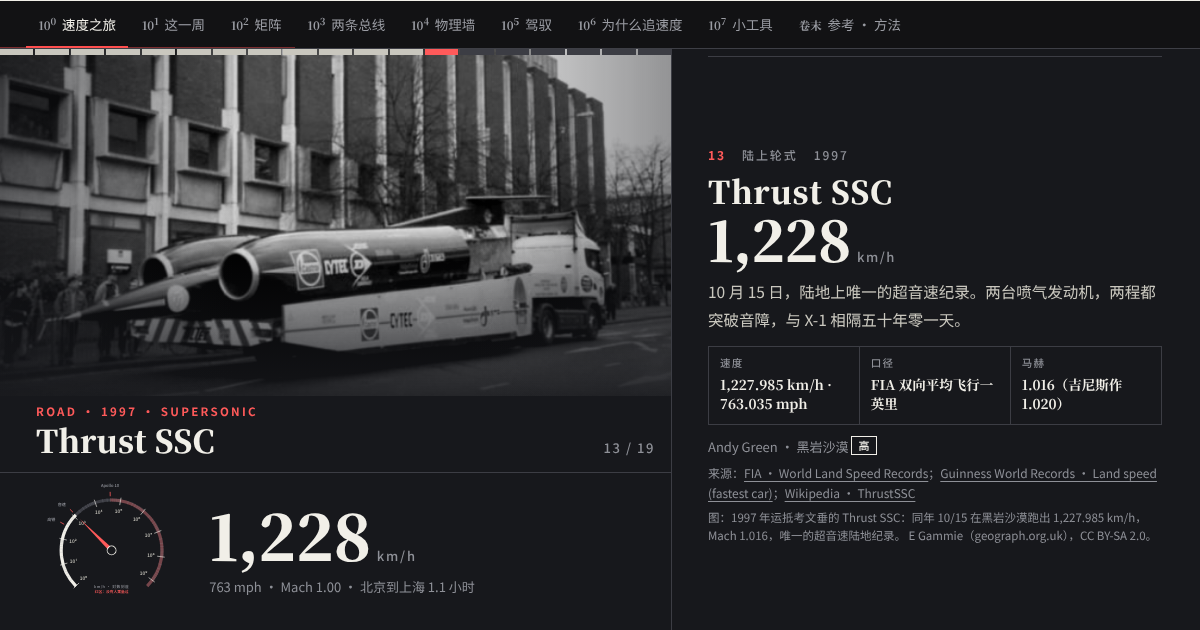
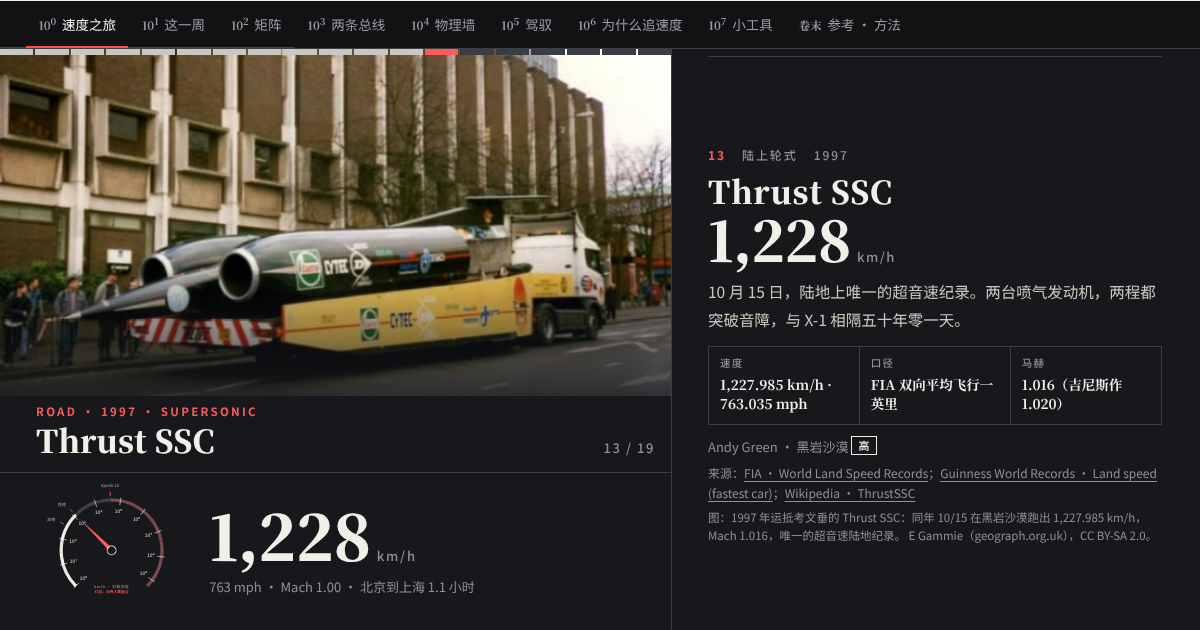
第 5 题草稿：照片恢复彩色（去掉全部 grayscale 滤镜与侧边压暗，只留舞台底部渐变给 HUD 文字垫底）
Claude-Session: https://claude.ai/code/session_01XQoqJ73vKiyB3G9WSXCVpJ

Changed region(s): [[0.0, 0.0603, 0.5858, 0.6333]]

diff --git a/themes/2026-10-17-pursuit-of-speed/index.html b/themes/2026-10-17-pursuit-of-speed/index.html
@@ -195,8 +195,7 @@ button{font-family:var(--sans)}
 .mxd dt{color:var(--muted);font-size:12.5px;padding-top:2px}
 .mxd dd{margin:0;color:var(--ink-2)}
 .mxd .ph{position:relative;border-left:1px solid var(--line);background:var(--surface-2);min-height:200px}
-.mxd .ph img{display:block;width:100%;height:100%;object-fit:cover;filter:grayscale(1) contrast(1.05);transition:filter .3s}
-.mxd .ph:hover img{filter:none}
+.mxd .ph img{display:block;width:100%;height:100%;object-fit:cover;transition:filter .3s}
 .mxd .ph figcaption{position:absolute;left:0;right:0;bottom:0;padding:18px 10px 8px;font-size:11.5px;line-height:1.5;color:#fff;background:linear-gradient(transparent,rgba(10,10,12,.85))}
 .mxd .ph.none{display:flex;align-items:center;justify-content:center;color:var(--muted);font-size:12.5px;padding:20px;text-align:center}
 
@@ -230,7 +229,7 @@ button{font-family:var(--sans)}
 .wall .ex{margin:12px 0 0;padding:10px 12px;border-left:3px solid var(--accent);background:var(--wash);font-size:13.5px;line-height:1.7}
 .wall .ex b{color:var(--accent-ink);font-weight:500;margin-right:.4em}
 .wall .ph{margin:0;border-top:1px solid var(--line)}
-.wall .ph img{display:block;width:100%;height:auto;max-height:260px;object-fit:cover;filter:grayscale(1)}
+.wall .ph img{display:block;width:100%;height:auto;max-height:260px;object-fit:cover}
 .wall .ph figcaption{font-size:11.5px;line-height:1.5;color:var(--muted);padding:6px 12px}
 
 /* ---------- 第五章 卡片 */
@@ -250,7 +249,7 @@ button{font-family:var(--sans)}
 .card details{margin-top:6px}
 .card summary{font-size:12px;color:var(--muted);cursor:pointer}
 .card figure{margin:10px -16px -16px;border-top:1px solid var(--line)}
-.card figure img{display:block;width:100%;height:150px;object-fit:cover;filter:grayscale(1)}
+.card figure img{display:block;width:100%;height:150px;object-fit:cover}
 .card figure figcaption{font-size:11px;color:var(--muted);padding:4px 16px 8px;line-height:1.5}
 
 /* ---------- 第六章 小工具 */
@@ -353,8 +352,8 @@ button{font-family:var(--sans)}
 .jwho{font-size:13px;color:var(--muted);margin:0 0 4px}
 .jstep .src{margin-top:2px;font-size:12px}
 .jph{margin:0;position:relative;aspect-ratio:16/9;overflow:hidden;border:1px solid var(--line);background:var(--surface)}
-.jph img{display:block;width:100%;height:100%;object-fit:cover;filter:grayscale(1) contrast(1.05);transform:scale(1.03);transition:transform 7s linear,filter .8s}
-.jstep.on .jph img{transform:scale(1.12);filter:grayscale(.15)}
+.jph img{display:block;width:100%;height:100%;object-fit:cover;transform:scale(1.03);transition:transform 7s linear}
+.jstep.on .jph img{transform:scale(1.12)}
 .jph figcaption{position:absolute;left:0;right:0;bottom:0;padding:22px 12px 9px;font-size:11.5px;line-height:1.5;color:#fff;background:linear-gradient(transparent,rgba(5,5,8,.88))}
 .jnote{color:var(--muted);font-size:13px;line-height:1.7;padding:24px var(--gut) 40px;margin:0 auto;max-width:1240px;border-top:1px solid var(--line)}
 @media (max-width:980px){
@@ -404,8 +403,7 @@ details.fold .pts{margin-top:6px}
 .hcard{border:1px solid var(--ink);background:var(--surface);display:flex;flex-direction:column}
 .hcard:first-child{grid-column:1/-1;border-color:var(--accent);box-shadow:inset 0 0 0 1px var(--accent)}
 .hph{margin:0;position:relative;aspect-ratio:21/9;overflow:hidden;border-bottom:1px solid var(--line);background:var(--surface-2)}
-.hph img{display:block;width:100%;height:100%;object-fit:cover;filter:grayscale(1) contrast(1.05);transition:filter .5s}
-.hcard:hover .hph img{filter:none}
+.hph img{display:block;width:100%;height:100%;object-fit:cover;}
 .hph figcaption{position:absolute;left:0;right:0;bottom:0;padding:20px 12px 8px;font-size:11.5px;line-height:1.5;color:#fff;background:linear-gradient(transparent,rgba(5,5,8,.86))}
 .hbd{padding:14px 18px 18px;display:flex;flex-direction:column;gap:8px}
 .hhd{display:flex;align-items:center;gap:12px;font-size:12.5px;color:var(--muted)}
@@ -425,10 +423,10 @@ details.fold .pts{margin-top:6px}
 .hlink{margin:0;font-size:13px;line-height:1.7;color:var(--ink);padding:8px 10px;background:var(--wash)}
 .hcard .src{font-size:12px}
 /* 序章舞台改用照片 */
-.veh img{display:block;width:100%;height:100%;object-fit:cover;filter:grayscale(1) contrast(1.08) brightness(.9)}
+.veh img{display:block;width:100%;height:100%;object-fit:cover}
 .veh.on img{animation:kb 9s linear forwards}
 @keyframes kb{from{transform:scale(1.02)}to{transform:scale(1.12)}}
-.veh::after{content:"";position:absolute;inset:0;background:linear-gradient(90deg,rgba(23,24,28,.55),transparent 35%,transparent 70%,rgba(23,24,28,.4)),linear-gradient(transparent 55%,rgba(23,24,28,.85))}
+.veh::after{content:"";position:absolute;inset:0;background:linear-gradient(transparent 60%,rgba(23,24,28,.8))}
 .veh-c{background:radial-gradient(ellipse at 60% 50%,rgba(255,90,90,.25),transparent 60%)}
 .cglyph{text-align:center}
 .cglyph b{display:block;font:900 clamp(120px,22vw,260px)/1 var(--serif);color:var(--ink);letter-spacing:-.04em}

diff --git a/themes/2026-10-17-pursuit-of-speed/src/template.html b/themes/2026-10-17-pursuit-of-speed/src/template.html
@@ -194,8 +194,7 @@ button{font-family:var(--sans)}
 .mxd dt{color:var(--muted);font-size:12.5px;padding-top:2px}
 .mxd dd{margin:0;color:var(--ink-2)}
 .mxd .ph{position:relative;border-left:1px solid var(--line);background:var(--surface-2);min-height:200px}
-.mxd .ph img{display:block;width:100%;height:100%;object-fit:cover;filter:grayscale(1) contrast(1.05);transition:filter .3s}
-.mxd .ph:hover img{filter:none}
+.mxd .ph img{display:block;width:100%;height:100%;object-fit:cover;transition:filter .3s}
 .mxd .ph figcaption{position:absolute;left:0;right:0;bottom:0;padding:18px 10px 8px;font-size:11.5px;line-height:1.5;color:#fff;background:linear-gradient(transparent,rgba(10,10,12,.85))}
 .mxd .ph.none{display:flex;align-items:center;justify-content:center;color:var(--muted);font-size:12.5px;padding:20px;text-align:center}
 
@@ -229,7 +228,7 @@ button{font-family:var(--sans)}
 .wall .ex{margin:12px 0 0;padding:10px 12px;border-left:3px solid var(--accent);background:var(--wash);font-size:13.5px;line-height:1.7}
 .wall .ex b{color:var(--accent-ink);font-weight:500;margin-right:.4em}
 .wall .ph{margin:0;border-top:1px solid var(--line)}
-.wall .ph img{display:block;width:100%;height:auto;max-height:260px;object-fit:cover;filter:grayscale(1)}
+.wall .ph img{display:block;width:100%;height:auto;max-height:260px;object-fit:cover}
 .wall .ph figcaption{font-size:11.5px;line-height:1.5;color:var(--muted);padding:6px 12px}
 
 /* ---------- 第五章 卡片 */
@@ -249,7 +248,7 @@ button{font-family:var(--sans)}
 .card details{margin-top:6px}
 .card summary{font-size:12px;color:var(--muted);cursor:pointer}
 .card figure{margin:10px -16px -16px;border-top:1px solid var(--line)}
-.card figure img{display:block;width:100%;height:150px;object-fit:cover;filter:grayscale(1)}
+.card figure img{display:block;width:100%;height:150px;object-fit:cover}
 .card figure figcaption{font-size:11px;color:var(--muted);padding:4px 16px 8px;line-height:1.5}
 
 /* ---------- 第六章 小工具 */
@@ -352,8 +351,8 @@ button{font-family:var(--sans)}
 .jwho{font-size:13px;color:var(--muted);margin:0 0 4px}
 .jstep .src{margin-top:2px;font-size:12px}
 .jph{margin:0;position:relative;aspect-ratio:16/9;overflow:hidden;border:1px solid var(--line);background:var(--surface)}
-.jph img{display:block;width:100%;height:100%;object-fit:cover;filter:grayscale(1) contrast(1.05);transform:scale(1.03);transition:transform 7s linear,filter .8s}
-.jstep.on .jph img{transform:scale(1.12);filter:grayscale(.15)}
+.jph img{display:block;width:100%;height:100%;object-fit:cover;transform:scale(1.03);transition:transform 7s linear}
+.jstep.on .jph img{transform:scale(1.12)}
 .jph figcaption{position:absolute;left:0;right:0;bottom:0;padding:22px 12px 9px;font-size:11.5px;line-height:1.5;color:#fff;background:linear-gradient(transparent,rgba(5,5,8,.88))}
 .jnote{color:var(--muted);font-size:13px;line-height:1.7;padding:24px var(--gut) 40px;margin:0 auto;max-width:1240px;border-top:1px solid var(--line)}
 @media (max-width:980px){
@@ -403,8 +402,7 @@ details.fold .pts{margin-top:6px}
 .hcard{border:1px solid var(--ink);background:var(--surface);display:flex;flex-direction:column}
 .hcard:first-child{grid-column:1/-1;border-color:var(--accent);box-shadow:inset 0 0 0 1px var(--accent)}
 .hph{margin:0;position:relative;aspect-ratio:21/9;overflow:hidden;border-bottom:1px solid var(--line);background:var(--surface-2)}
-.hph img{display:block;width:100%;height:100%;object-fit:cover;filter:grayscale(1) contrast(1.05);transition:filter .5s}
-.hcard:hover .hph img{filter:none}
+.hph img{display:block;width:100%;height:100%;object-fit:cover;}
 .hph figcaption{position:absolute;left:0;right:0;bottom:0;padding:20px 12px 8px;font-size:11.5px;line-height:1.5;color:#fff;background:linear-gradient(transparent,rgba(5,5,8,.86))}
 .hbd{padding:14px 18px 18px;display:flex;flex-direction:column;gap:8px}
 .hhd{display:flex;align-items:center;gap:12px;font-size:12.5px;color:var(--muted)}
@@ -424,10 +422,10 @@ details.fold .pts{margin-top:6px}
 .hlink{margin:0;font-size:13px;line-height:1.7;color:var(--ink);padding:8px 10px;background:var(--wash)}
 .hcard .src{font-size:12px}
 /* 序章舞台改用照片 */
-.veh img{display:block;width:100%;height:100%;object-fit:cover;filter:grayscale(1) contrast(1.08) brightness(.9)}
+.veh img{display:block;width:100%;height:100%;object-fit:cover}
 .veh.on img{animation:kb 9s linear forwards}
 @keyframes kb{from{transform:scale(1.02)}to{transform:scale(1.12)}}
-.veh::after{content:"";position:absolute;inset:0;background:linear-gradient(90deg,rgba(23,24,28,.55),transparent 35%,transparent 70%,rgba(23,24,28,.4)),linear-gradient(transparent 55%,rgba(23,24,28,.85))}
+.veh::after{content:"";position:absolute;inset:0;background:linear-gradient(transparent 60%,rgba(23,24,28,.8))}
 .veh-c{background:radial-gradient(ellipse at 60% 50%,rgba(255,90,90,.25),transparent 60%)}
 .cglyph{text-align:center}
 .cglyph b{display:block;font:900 clamp(120px,22vw,260px)/1 var(--serif);color:var(--ink);letter-spacing:-.04em}
